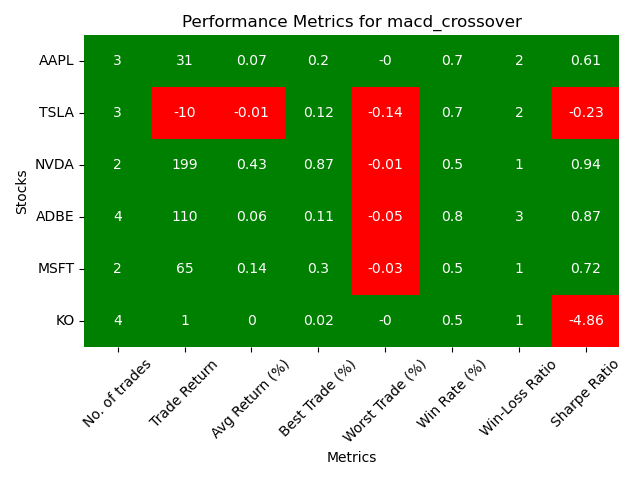
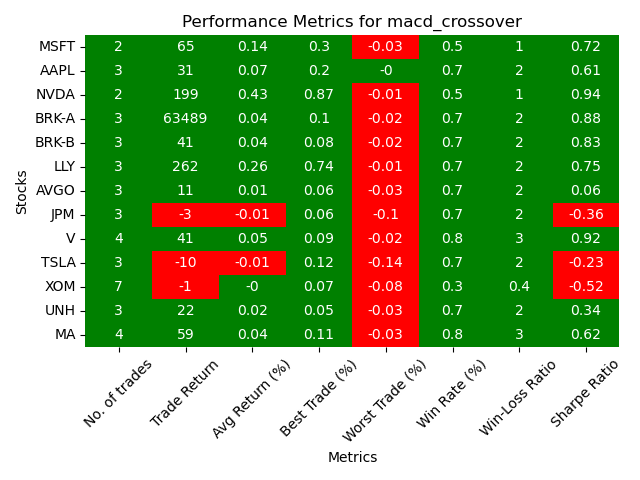
Feat: webscrape stock list

diff --git a/Backtesting/utils/webscraping.py b/Backtesting/utils/webscraping.py
@@ -1,0 +1,24 @@
+from selenium import webdriver
+from selenium.webdriver.chrome.service import Service
+from selenium.webdriver.common.by import By
+from webdriver_manager.chrome import ChromeDriverManager
+
+def get_top_mkt_cap():
+
+    driver = webdriver.Chrome(service=Service(ChromeDriverManager().install()))
+    # Navigate to the desired URL
+    url = 'https://finviz.com/screener.ashx?v=111&o=-marketcap'
+    driver.get(url)
+
+    # # element = driver.find_element(By.XPATH, '/html/body/div[3]/div[3]/div[4]/table/tbody/tr/td/div/table[2]/tbody/tr[7]/td/table/tbody/tr/td[1]/div/table/tbody')
+
+    element = driver.find_element(By.CSS_SELECTOR,'#screener-table')
+    content=element.text
+    # Print the extracted content
+    print(content)
+    driver.quit()
+
+    content_list = content.split('\n')
+    content_title_list = content_list[2::11]
+
+    return content_title_list

diff --git a/Backtesting/main.py b/Backtesting/main.py
@@ -10,11 +10,13 @@ from strategies import rsi_range
 from strategies import support_resistance_breakout
 from strategies import mean_reversion_with_rsi
 from strategies import macd_crossover
+import utils.webscraping as ws
 import utils.backtesting as bt
 import utils.visualisation as vs
 
 
-list_stock = ['AAPL','TSLA','NVDA','GOOG','META','ADBE','AMZN','MSFT','KO']
+list_stock = ws.get_top_mkt_cap()
+# list_stock = ['AAPL','TSLA','NVDA','GOOG','META','ADBE','AMZN','MSFT','KO']
 #list_stock=['META']
 
 risk_free_rate = 2.24
